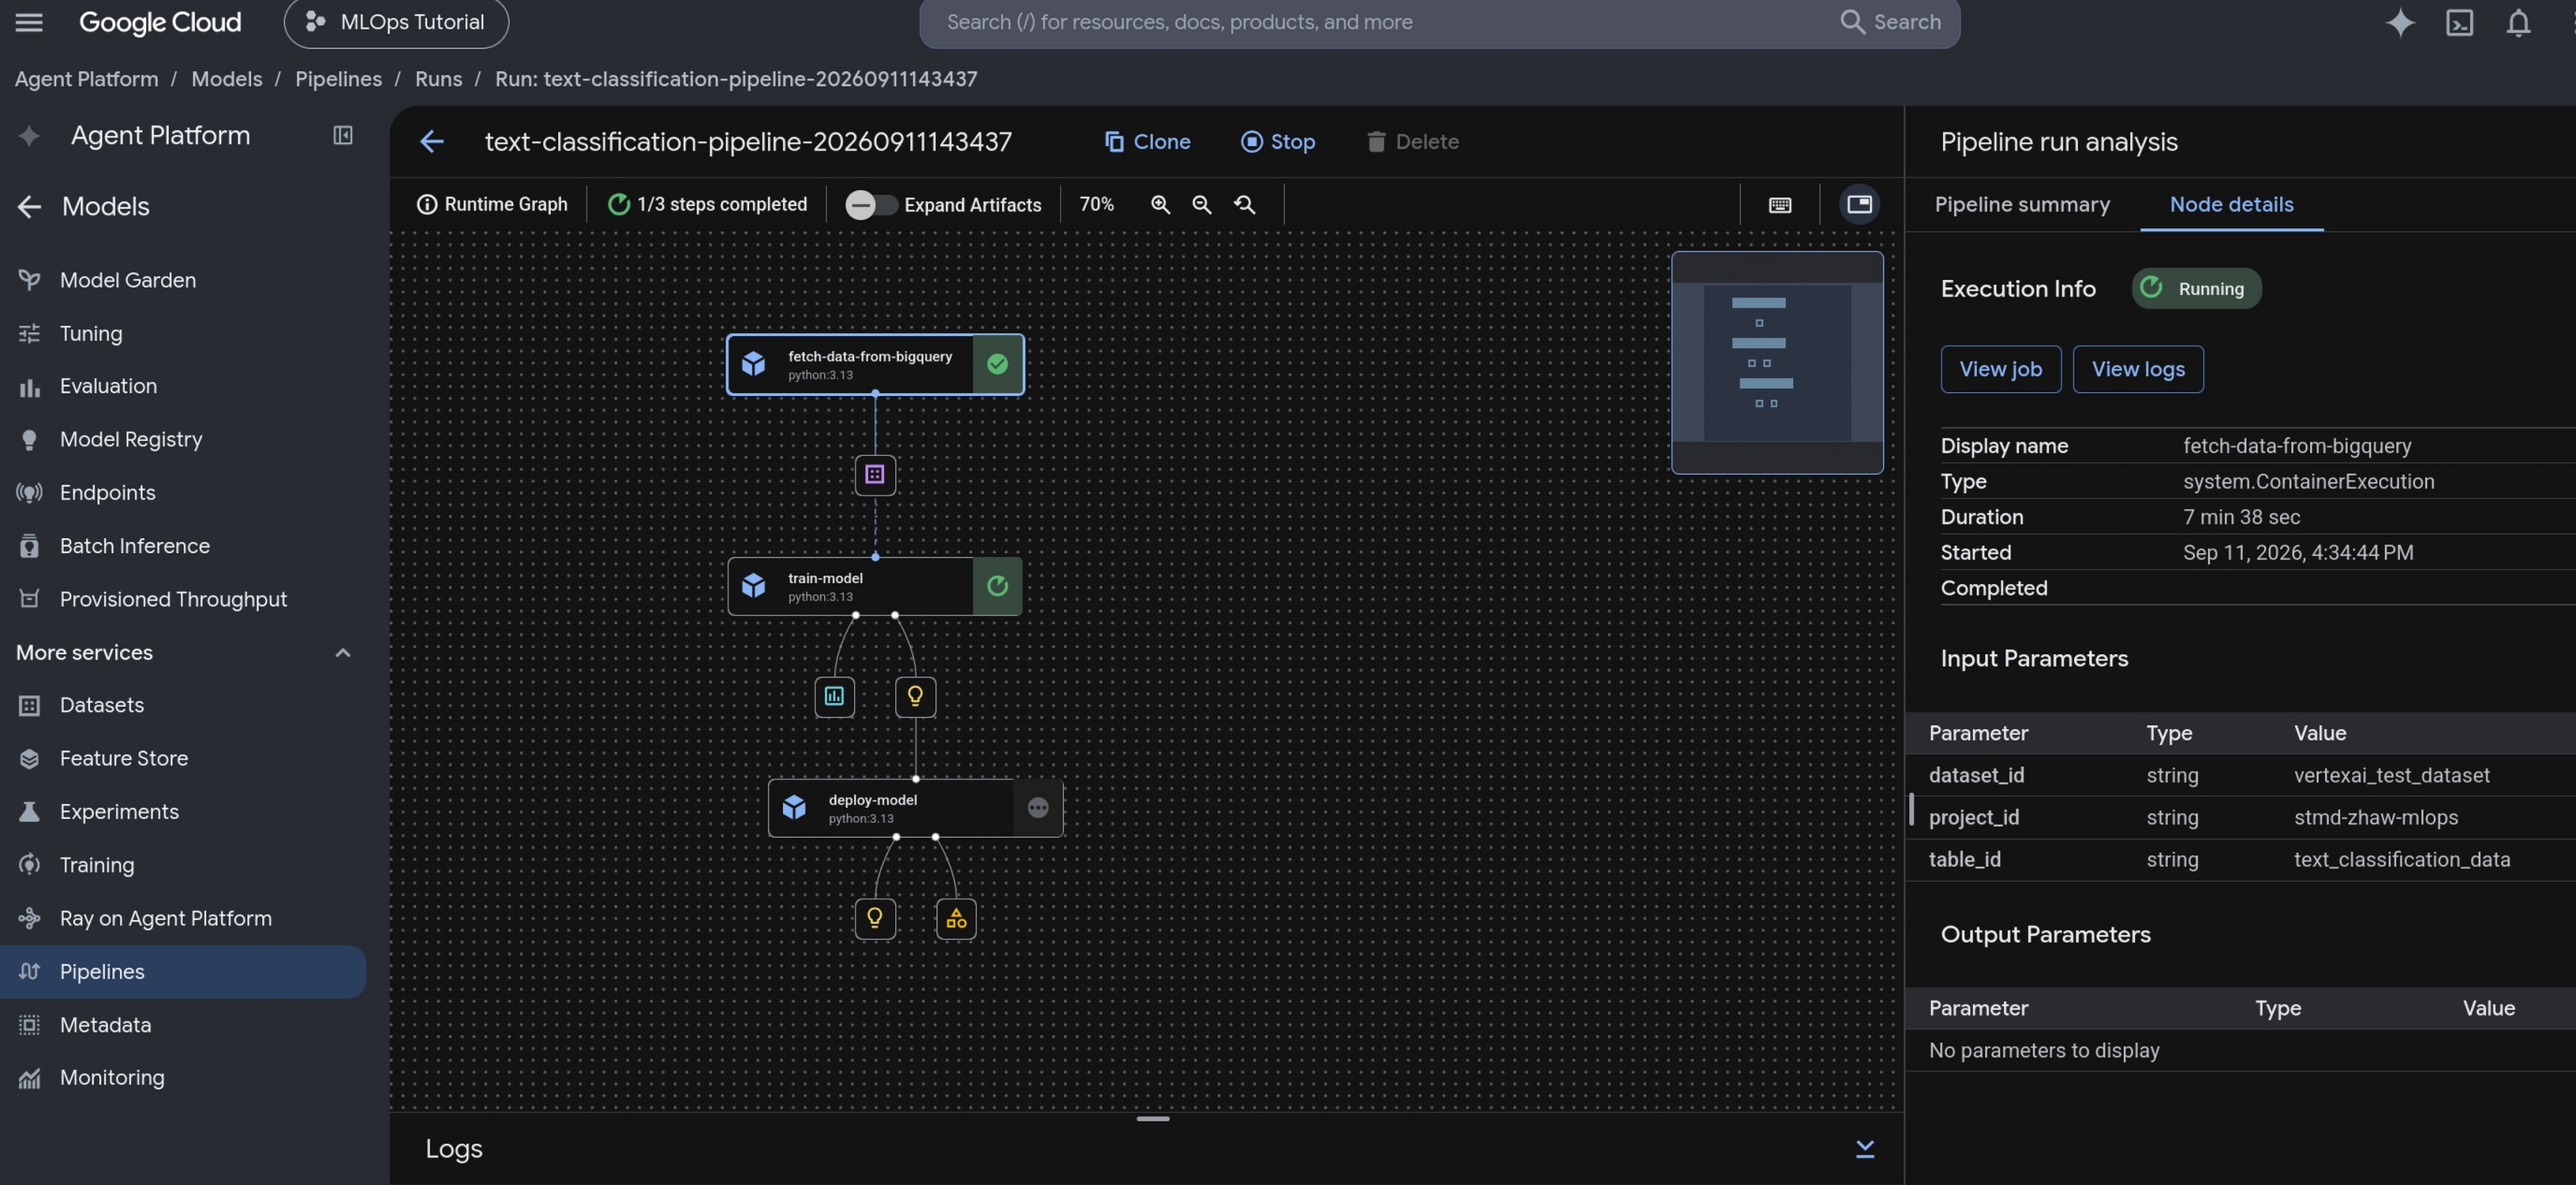
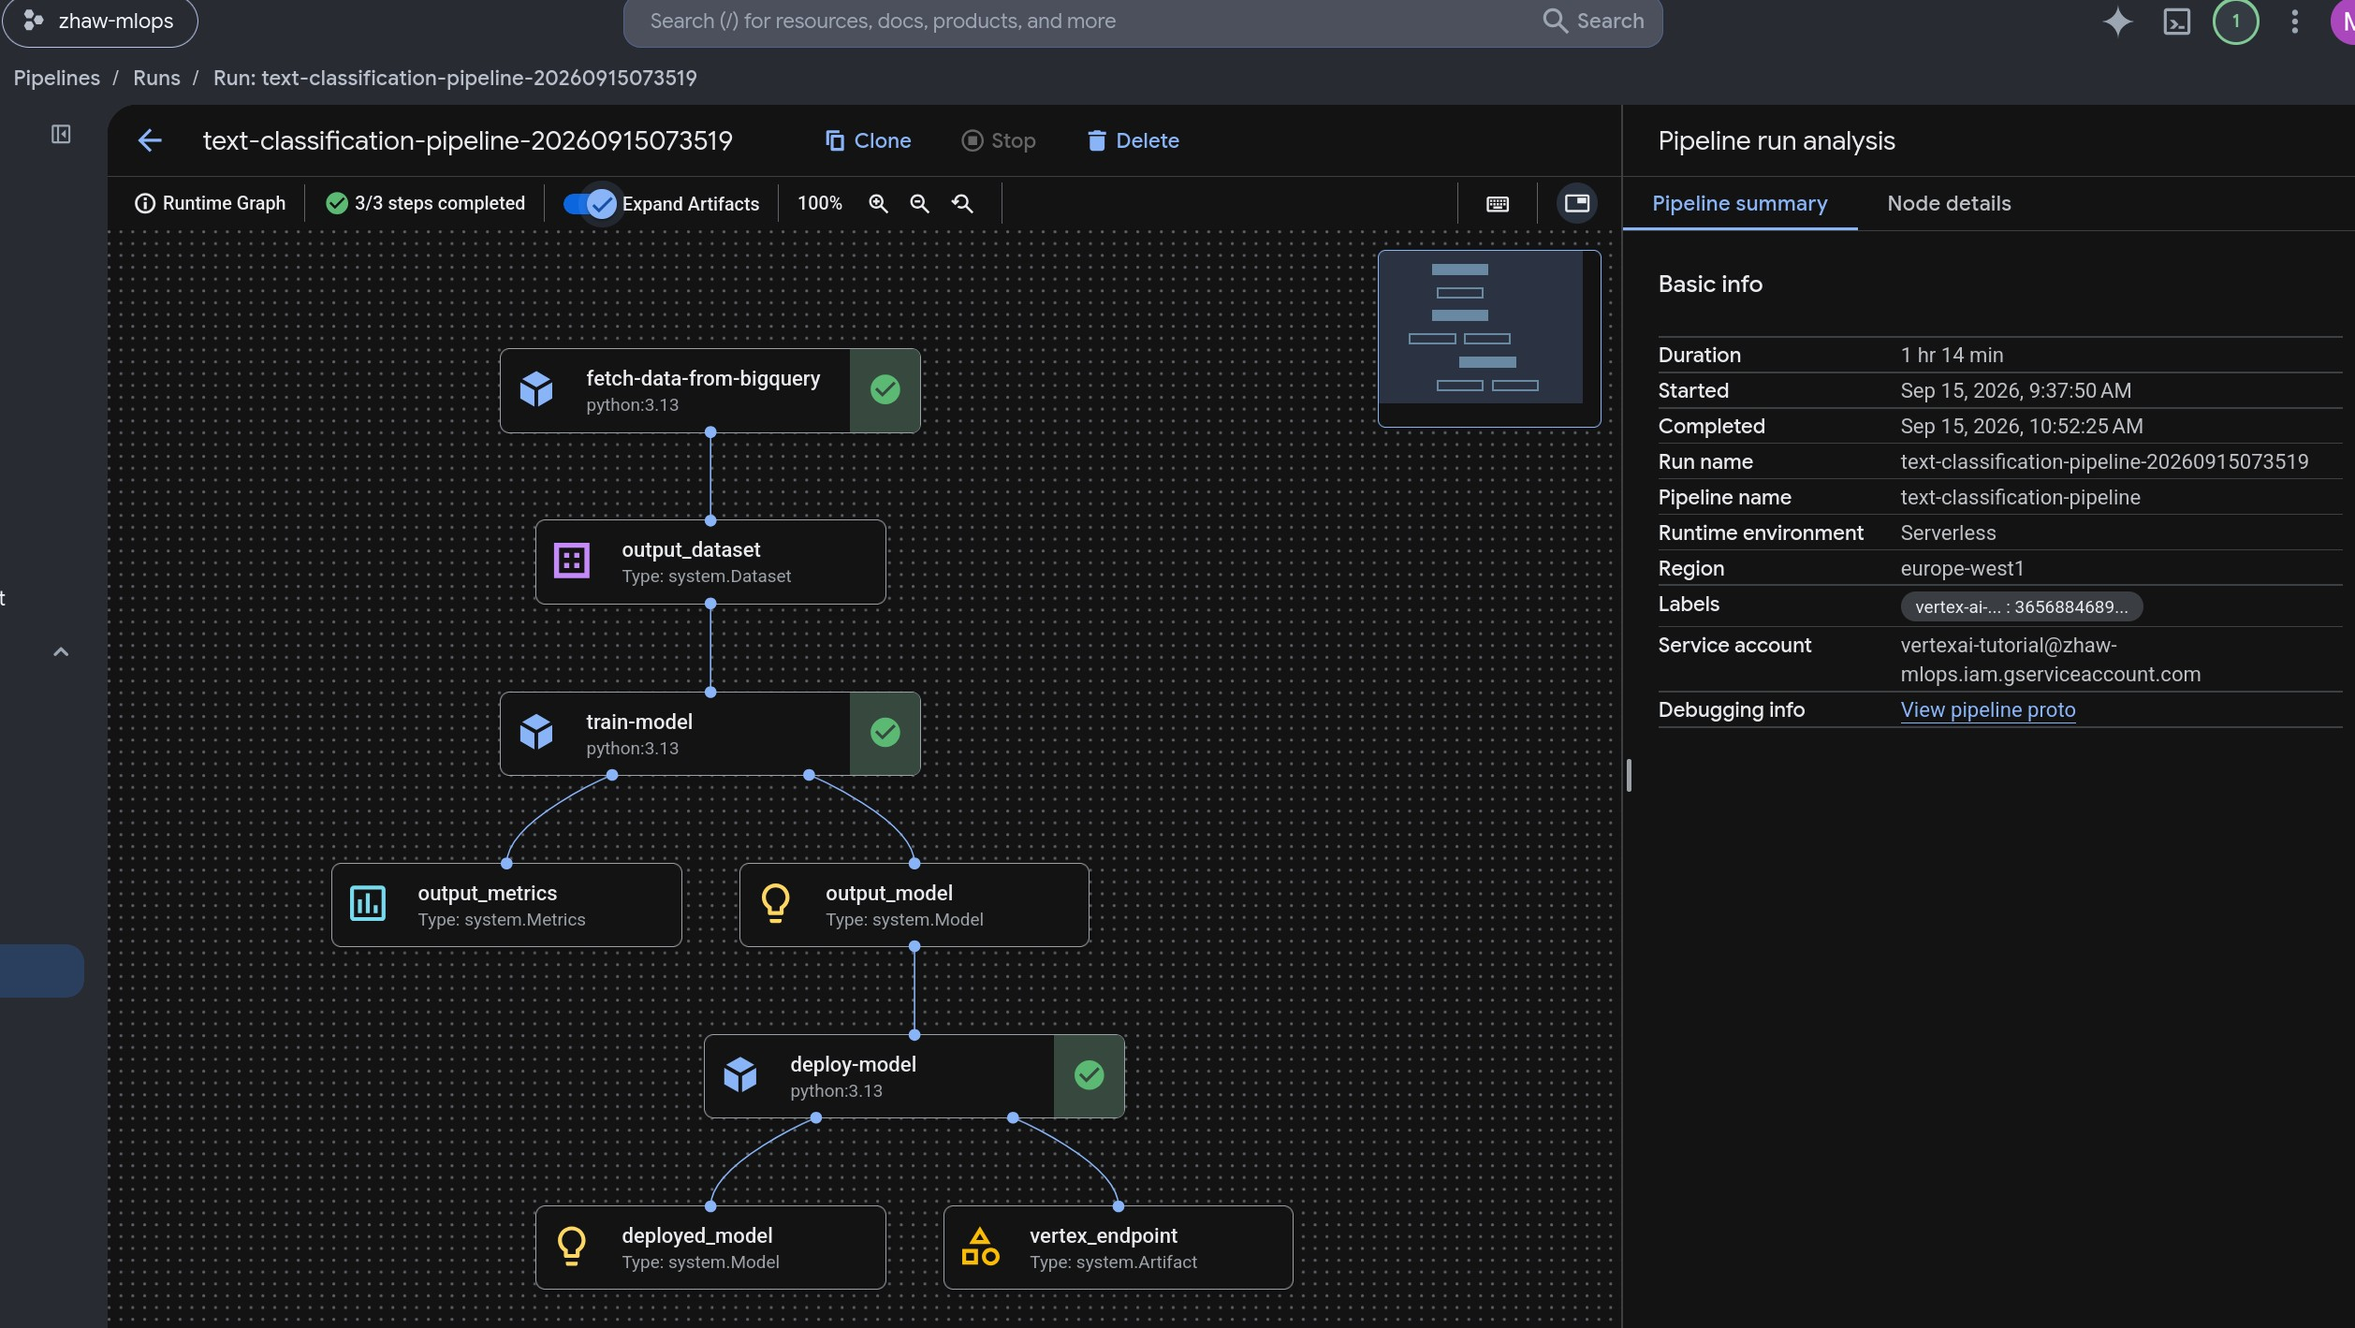
update time

diff --git a/VertexAI/README_VertexAI.md b/VertexAI/README_VertexAI.md
@@ -12,6 +12,25 @@ This tutorial uses real, billable Google Cloud resources. Training is a one-off 
 
 If you're on a new Google account, Google Cloud's free trial credit is generally enough to complete this tutorial.
 
+## Glossary
+
+A few terms come up repeatedly below - skip this if you're already familiar with them.
+
+| Term | What it means here |
+|---|---|
+| **Project** | A Google Cloud project is an isolated container for your resources, billing, and permissions - like a workspace. Everything you create below lives inside one project. |
+| **Billing account** | The payment method linked to your project. Required before you can use most services, even the free tier. |
+| **`gcloud` CLI** | Google Cloud's command-line tool. Almost every step below is a `gcloud` command. |
+| **Compute Engine VM** | A virtual machine (a whole Linux computer) running in Google's data centers. This tutorial has you create one small VM to run all the commands below from, so it doesn't matter what OS or permissions your own laptop has. |
+| **Service account** | A non-human "robot" identity that your code (running inside Docker containers here) uses to talk to Google Cloud, instead of your personal login. |
+| **Service account key** | A downloadable JSON credentials file (`credential.json` here) that lets code authenticate as a service account. Treat it like a password - never commit it to git (it's already git-ignored in this repo). |
+| **Enabling an API** | Google Cloud services are off by default per project. "Enabling" `bigquery.googleapis.com`, for example, turns BigQuery on for your project. |
+| **Artifact Registry** | Google Cloud's Docker image registry - where the custom container image you build gets stored so Vertex AI can pull it. |
+| **BigQuery** | Google Cloud's data warehouse. Used here just to simulate "fetching fresh data from a production data source," even though the dataset itself doesn't need a database. |
+| **Kubeflow Pipelines (KFP) / Vertex AI Pipelines** | A way to describe a multi-step ML workflow (fetch data → train → deploy) as Python functions, compile it, and run it on managed infrastructure. |
+| **Model Registry** | Vertex AI's catalog of uploaded, versioned models. |
+| **Endpoint** | A deployed, running copy of a model that accepts prediction requests over HTTP. This is the part that keeps billing until deleted. |
+
 ## Prerequisite: create and connect to a Cloud VM
 
 Everything below could just as well run directly on your own laptop - but to avoid OS-specific dependency issues, and as a bit of extra hands-on practice, this tutorial has you create a small Google Cloud VM instead and run everything from there.
@@ -81,25 +100,6 @@ Run this from a checkout of this repository so the relative path to `vm-startup.
 > #### Alternative: run this on your own machine instead
 > If you'd rather not use a VM at all, you can run everything locally: install `gcloud` per step 3 above (if you haven't already), plus [Docker Desktop](https://www.docker.com/products/docker-desktop/) (includes Docker Compose) and `jq` (`apt install jq` / `brew install jq` / [jqlang.org](https://jqlang.org/download/)), then continue with Part 0 below from a local clone of this repository. Everything below works identically either way.
 
-## Glossary
-
-A few terms come up repeatedly below - skip this if you're already familiar with them.
-
-| Term | What it means here |
-|---|---|
-| **Project** | A Google Cloud project is an isolated container for your resources, billing, and permissions - like a workspace. Everything you create below lives inside one project. |
-| **Billing account** | The payment method linked to your project. Required before you can use most services, even the free tier. |
-| **`gcloud` CLI** | Google Cloud's command-line tool. Almost every step below is a `gcloud` command. |
-| **Compute Engine VM** | A virtual machine (a whole Linux computer) running in Google's data centers. This tutorial has you create one small VM to run all the commands below from, so it doesn't matter what OS or permissions your own laptop has. |
-| **Service account** | A non-human "robot" identity that your code (running inside Docker containers here) uses to talk to Google Cloud, instead of your personal login. |
-| **Service account key** | A downloadable JSON credentials file (`credential.json` here) that lets code authenticate as a service account. Treat it like a password - never commit it to git (it's already git-ignored in this repo). |
-| **Enabling an API** | Google Cloud services are off by default per project. "Enabling" `bigquery.googleapis.com`, for example, turns BigQuery on for your project. |
-| **Artifact Registry** | Google Cloud's Docker image registry - where the custom container image you build gets stored so Vertex AI can pull it. |
-| **BigQuery** | Google Cloud's data warehouse. Used here just to simulate "fetching fresh data from a production data source," even though the dataset itself doesn't need a database. |
-| **Kubeflow Pipelines (KFP) / Vertex AI Pipelines** | A way to describe a multi-step ML workflow (fetch data → train → deploy) as Python functions, compile it, and run it on managed infrastructure. |
-| **Model Registry** | Vertex AI's catalog of uploaded, versioned models. |
-| **Endpoint** | A deployed, running copy of a model that accepts prediction requests over HTTP. This is the part that keeps billing until deleted. |
-
 ## How it works (short version)
 
 1. `prepare_dataset.py` loads the AG News dataset (news headlines labeled World/Sports/Business/Sci-Tech) and uploads a couple thousand rows to BigQuery, backdated with timestamps so it looks like "recent" production data.
@@ -148,8 +148,10 @@ gcloud services enable \
     aiplatform.googleapis.com \
     bigquery.googleapis.com \
     artifactregistry.googleapis.com \
-    cloudbuild.googleapis.com
+    cloudbuild.googleapis.com \
+    cloudresourcemanager.googleapis.com
 ```
+(`cloudresourcemanager.googleapis.com` isn't called directly by this tutorial's code, but the Vertex AI SDK uses it internally to verify your `pipeline_root` bucket actually belongs to your project before writing to it - without it enabled, Part 4 prints a scary but non-fatal "bucket squatting attack" traceback; see Troubleshooting.)
 
 **1.3 Create a service account.** This is the identity the Docker containers use to call BigQuery and Vertex AI on your behalf (separate from your own personal `gcloud auth login` identity):
 ```bash
@@ -166,6 +168,11 @@ gcloud projects add-iam-policy-binding $PROJECT_ID --member="serviceAccount:$SA"
 gcloud projects add-iam-policy-binding $PROJECT_ID --member="serviceAccount:$SA" --role="roles/bigquery.dataEditor"
 gcloud projects add-iam-policy-binding $PROJECT_ID --member="serviceAccount:$SA" --role="roles/bigquery.jobUser"
 gcloud projects add-iam-policy-binding $PROJECT_ID --member="serviceAccount:$SA" --role="roles/storage.admin"
+
+# Lets the Vertex AI SDK resolve your project's number (via Cloud Resource Manager) to verify
+# the pipeline_root bucket really belongs to this project - without it, Part 4 raises a
+# non-fatal but scary "bucket squatting attack" error even when the bucket is fine.
+gcloud projects add-iam-policy-binding $PROJECT_ID --member="serviceAccount:$SA" --role="roles/browser"
 
 # Let the service account act as itself - Vertex AI Pipelines needs this explicitly
 # granted even though the SA submitting the job and the SA running it are the same one.
@@ -252,7 +259,16 @@ This uses Cloud Build (a Google-managed build service) rather than building loca
 ```bash
 docker compose run mlops-v1
 ```
-This compiles the pipeline defined in `main.py` and submits it to Vertex AI Pipelines, which then runs the fetch → train → deploy steps on managed infrastructure. Training a DistilBERT model for 5 epochs on ~2000 rows typically takes **30-60 minutes**.
+This compiles the pipeline defined in `main.py` and submits it to Vertex AI Pipelines, which then runs the fetch → train → deploy steps on managed infrastructure, blocking until the whole thing finishes. Budget **around 70-90 minutes end to end**. Measured from an actual run:
+
+| Step | Typical duration | What it's mostly spending time on |
+|---|---|---|
+| `fetch-data-from-bigquery` | ~5-6 min | Mostly cold-start (Vertex AI spins up a fresh container for each step) plus a quick BigQuery query |
+| `train-model` | ~40-50 min | Fine-tuning DistilBERT for 5 epochs on ~2000 rows on CPU (no GPU/accelerator is configured) |
+| `deploy-model` | ~20-25 min | Uploading to Model Registry, then provisioning and deploying an Endpoint on an `n1-standard-4` VM (image pull + serving container startup dominate) |
+| **Total** | **~70-90 min** | |
+
+These steps run sequentially, not in parallel, so the total is roughly their sum. Actual times vary by run - use this as a rough guide for how long to expect `docker compose run` to keep you waiting, not a guarantee.
 
 You can watch progress in the console under Vertex AI (Gemini Enterprise Agent Platform) → Pipelines, in your project. Each step's logs are available by clicking into it.
 
@@ -378,6 +394,7 @@ gcloud projects delete <your-project-id>
 - **`gcloud builds submit` fails with a repository/permission error**: make sure step 1.6 (Artifact Registry repo) succeeded, and that your own `gcloud auth login` user (not the service account) has permission to submit Cloud Builds and push images - if you're the project Owner, you already do.
 - **Pipeline stuck/failed in the console**: click into the failing step to see its logs; most first-run failures are a missing API (Part 1.2), a missing IAM role (Part 1.4), or a bucket/dataset name typo in `config.json`.
 - **`git`, `docker`, `jq`, or `gcloud` missing on the tutorial VM**: the startup script (Prerequisite, step 5) either hadn't finished yet when you connected (wait a minute after creating the VM, or check with `sudo journalctl -u google-startup-scripts.service`), or wasn't attached to the VM at all (double-check you pasted `vm-startup.sh`'s contents into the startup-script field, or used `--metadata-from-file` in the `gcloud` command). Either way, you can always install the missing piece by hand, e.g. `sudo apt-get update && sudo apt-get install -y git jq docker.io google-cloud-cli`.
+- **Part 4 prints `ValueError: Output artifacts bucket "..." exists but does not belong to project "..."` / "This may indicate a bucket squatting attack"**: this is usually a false alarm, and the pipeline run itself still succeeds (it appears right before `PipelineJob created`) - it does **not** mean your bucket is compromised. It's the Vertex AI SDK failing to verify bucket ownership because either `cloudresourcemanager.googleapis.com` isn't enabled (step 1.2) or the service account is missing `roles/browser` (step 1.4) - both needed for the SDK to resolve your project ID to a project number. Add whichever is missing and rerun; if you just want to confirm the bucket is genuinely yours, check with `gcloud storage buckets describe gs://<bucket_name> --format="value(name)"` (a 403 there means someone else really does own the name - pick a more unique `bucket_name`, e.g. `$PROJECT_ID-vertexai-tutorial`).
 - **`gcloud compute instances create` fails with "No default subnetwork was found in the region of the instance"**: your project's `default` VPC network exists but is missing an auto-created subnet in the region you're using (some projects' default networks never backfill newer regions). Check with:
   ```bash
   gcloud compute networks subnets list --filter="region:europe-west1"
